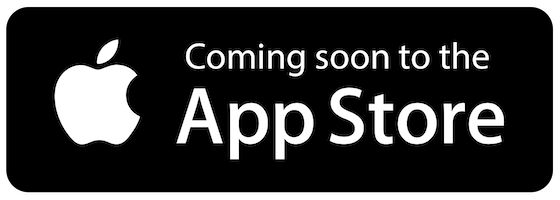
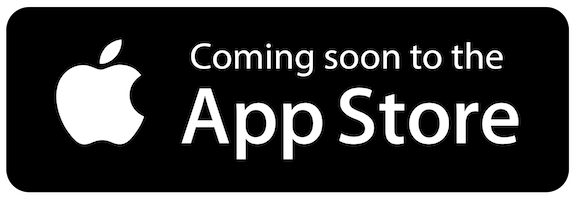
Image width change

diff --git a/src/pages/index.js b/src/pages/index.js
@@ -109,7 +109,7 @@ export const query = graphql`
     }
     apple: file(relativePath: { eq: "coming-soon-apple.png" }) {
       childImageSharp {
-        fixed(width: 280, height: 100) {
+        fixed(width: 288, height: 100) {
           ...GatsbyImageSharpFixed_noBase64
         }
       }
